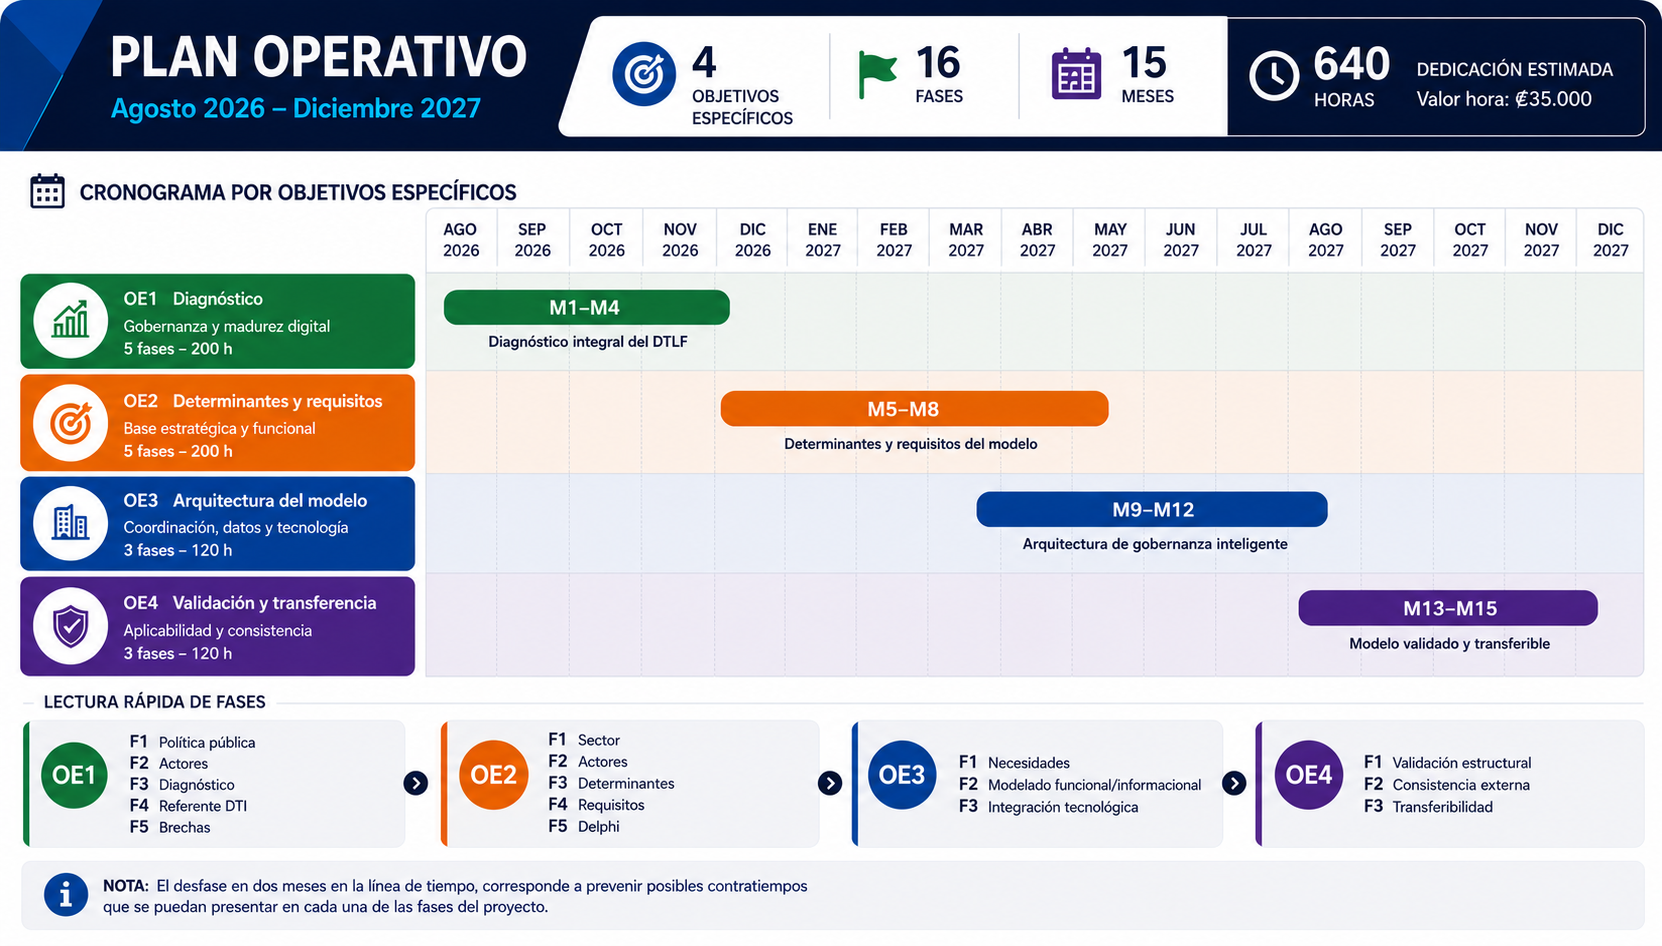
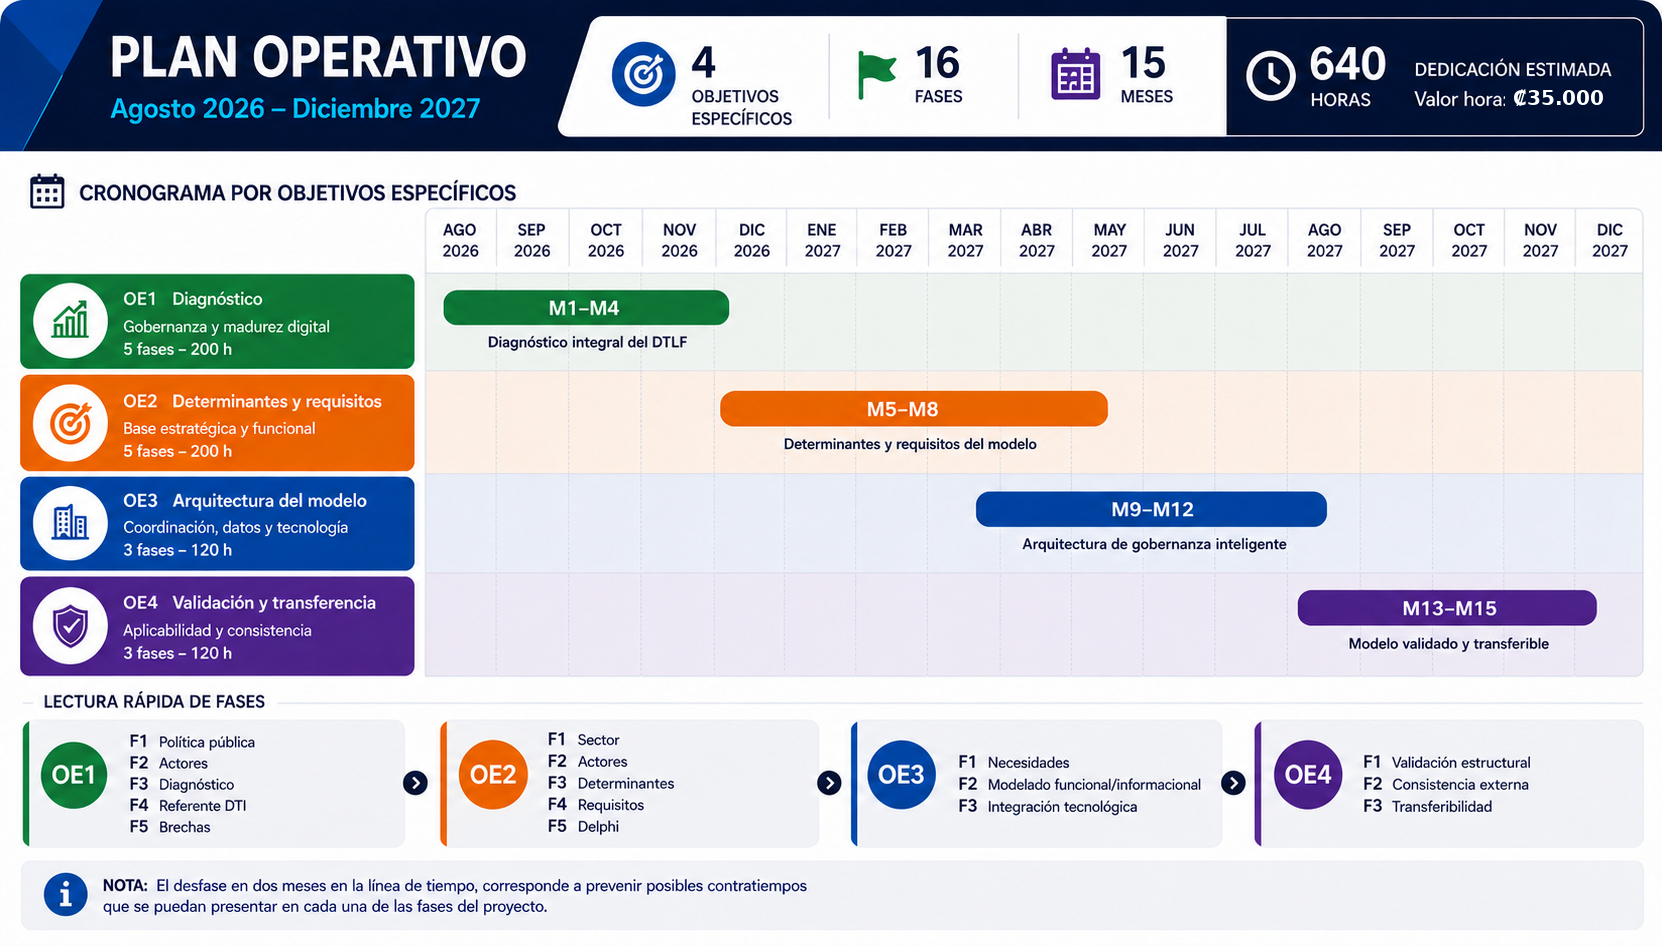
fix: aislar interacción por slide y compactar barra de navegación
- Guarda de captura global que bloquea pointer/mouse/touch/keydown sobre
  elementos de slides inactivas, evitando que un marcador de otra pantalla
  abra su contenido.
- Los overlays se reubican en <body> al iniciar, lo que rompía el vínculo con
  su slide: ahora se registra data-owner-slide y las funciones open* lo validan.
- go() quita el foco de botones al cambiar de slide (Enter/Space ya no
  reactiva un marcador de la slide anterior).
- Barra superior: pasos con ancho según contenido para que entren nombres
  largos como "Marco Metodológico".
- Actualiza la imagen del Plan Operativo.

diff --git a/pitch.html b/pitch.html
@@ -140,7 +140,7 @@ svg.ic{width:1em;height:1em;stroke:currentColor;fill:none;stroke-width:1.8;strok
 
 /* ===== Top progress ===== */
 .progress-bar{position:fixed;top:0;left:0;right:0;display:flex;background:var(--cream);z-index:50;border-bottom:1px solid rgba(5,15,13,.12);box-shadow:0 8px 20px rgba(5,15,13,.08);overflow-x:auto}
-.progress-step{flex:1 1 0;min-width:64px;padding:9px 5px;text-align:center;font-size:10px;font-weight:900;color:var(--text-muted);cursor:pointer;transition:all .25s;border-right:1px solid rgba(5,15,13,.06);position:relative;text-transform:uppercase;letter-spacing:.2px;display:flex;align-items:center;justify-content:center;gap:5px;min-height:42px;line-height:1.15;overflow:hidden}
+.progress-step{flex:1 1 auto;min-width:0;padding:8px 3px;text-align:center;font-size:10px;font-weight:900;color:var(--text-muted);cursor:pointer;transition:all .25s;border-right:1px solid rgba(5,15,13,.06);position:relative;text-transform:uppercase;letter-spacing:.2px;display:flex;align-items:center;justify-content:center;gap:3px;min-height:42px;line-height:1.15;overflow:hidden}
 .progress-step .ps-num{font-weight:900;color:var(--volcano);font-size:10.5px;flex-shrink:0}
 .progress-step .ps-name{overflow:hidden;text-overflow:ellipsis;white-space:nowrap;max-width:100%}
 .progress-step:last-child{border-right:none}
@@ -595,7 +595,7 @@ svg.ic{width:1em;height:1em;stroke:currentColor;fill:none;stroke-width:1.8;strok
   .brand-full{display:none}
   .brand{padding:8px 10px}
   .progress-bar{padding-bottom:2px}
-  .progress-step{min-width:50px;font-size:8.2px;min-height:38px}
+  .progress-step{min-width:0;padding:8px 2px;gap:2px;font-size:8.2px;min-height:38px}
   .photo-frame{max-width:210px}
   .tabbar{display:grid;grid-template-columns:minmax(0,1fr) minmax(0,1fr);gap:8px}
   .tabbtn{justify-content:center;padding:10px 8px}
@@ -639,7 +639,7 @@ svg.ic{width:1em;height:1em;stroke:currentColor;fill:none;stroke-width:1.8;strok
 /* small phone */
 @media (max-width:400px){
   .slide{padding:58px 14px 32px}
-  .progress-step{min-width:44px;font-size:7.6px}
+  .progress-step{min-width:0;padding:7px 1px;gap:2px;font-size:7.6px}
   .progress-step .ps-num{font-size:9px}
   .cifras-bento{grid-template-columns:minmax(0,1fr)}
   .cifra.hl{grid-column:span 1}
@@ -796,6 +796,35 @@ svg.ic{width:1em;height:1em;stroke:currentColor;fill:none;stroke-width:1.8;strok
   if(mq.addEventListener) mq.addEventListener('change', applyMode);
   else mq.addListener(applyMode);
   window.addEventListener('orientationchange', function(){ setTimeout(applyMode, 50); });
+})();
+</script>
+
+<script>
+/* Aislamiento por slide: ningún elemento de una slide inactiva puede recibir
+   interacción ni abrir su contenido, aunque quede solapado en pantalla. */
+(function(){
+  function slideOf(el){
+    return (el && el.closest) ? el.closest('.slide') : null;
+  }
+  function belongsToActiveSlide(el){
+    var owner = (el && el.closest) ? el.closest('[data-owner-slide]') : null;
+    if(owner){
+      var slides = document.querySelectorAll('.slide');
+      var idx = +owner.dataset.ownerSlide;
+      return !!slides[idx] && slides[idx].classList.contains('active');
+    }
+    var s = slideOf(el);
+    return !s || s.classList.contains('active');
+  }
+  window.__belongsToActiveSlide = belongsToActiveSlide;
+
+  ['pointerdown','mousedown','click','dblclick','touchstart','keydown'].forEach(function(type){
+    document.addEventListener(type, function(e){
+      if(belongsToActiveSlide(e.target)) return;
+      e.stopImmediatePropagation();
+      if(type !== 'keydown') e.preventDefault();
+    }, true);
+  });
 })();
 </script>
 
@@ -1195,6 +1224,7 @@ const $steps = document.querySelectorAll('.progress-step');
 
 function go(i){
   i = Math.max(0, Math.min(slides.length-1, i));
+  if(document.activeElement && document.activeElement.closest && document.activeElement.closest('.slide')) document.activeElement.blur();
   document.querySelectorAll('.preg-overlay.open, .mt-table-overlay.open').forEach(o=>o.classList.remove('open'));
   document.querySelectorAll('.photo-frame.marker-open').forEach(f=>f.classList.remove('marker-open'));
   const mmImg = document.getElementById('mmImgOverlayImg');
@@ -1366,6 +1396,7 @@ const OBJESP_INFO = [
   {t:'4. Validación del modelo', d:'Validar el modelo propuesto en términos de completitud, coherencia y consistencia para asegurar su transferibilidad y aplicabilidad en el ecosistema del DTLF.'}
 ];
 function openObjEspMarker(i){
+  if(!window.__belongsToActiveSlide(document.getElementById('objEspOverlay'))) return;
   document.getElementById('objEspOverlayTitle').textContent = OBJESP_INFO[i].t;
   document.getElementById('objEspOverlayBody').textContent = OBJESP_INFO[i].d;
   const overlay = document.getElementById('objEspOverlay');
@@ -1406,6 +1437,7 @@ window.addEventListener('resize', fitObjEspFrame);
 /* ===== Pregunta: preguntas específicas ===== */
 function openPregOverlay(){
   const overlay = document.getElementById('pregOverlay');
+  if(!window.__belongsToActiveSlide(overlay)) return;
   if(overlay) overlay.classList.add('open');
 }
 function closePregOverlay(){
@@ -1842,7 +1874,7 @@ function setMarcoTeoAcc(i){
 }
 function openMarcoTeoMarker(i){
   const overlay = document.getElementById('mtTableOverlay');
-  if(!overlay) return;
+  if(!overlay || !window.__belongsToActiveSlide(overlay)) return;
   overlay.classList.add('open');
   setMarcoTeoAcc(i);
 }
@@ -1889,7 +1921,7 @@ const MARCOMETO_OBJ_IMAGES = ['assets/mm-obj1.png', 'assets/mm-obj2.png', 'asset
 function openMmImgOverlay(src){
   const overlay = document.getElementById('mmImgOverlay');
   const img = document.getElementById('mmImgOverlayImg');
-  if(!overlay || !img) return;
+  if(!overlay || !img || !window.__belongsToActiveSlide(overlay)) return;
   if(img.src.endsWith(src)){
     overlay.classList.add('open');
     return;
@@ -1908,7 +1940,7 @@ function closeMmImgOverlay(){
 function openMarcoMetoMarker(i){
   if(i===2){
     const overlay = document.getElementById('mmProcesoOverlay');
-    if(overlay) overlay.classList.add('open');
+    if(overlay && window.__belongsToActiveSlide(overlay)) overlay.classList.add('open');
     return;
   }
   openMmImgOverlay(MARCOMETO_IMAGES[i]);
@@ -2113,7 +2145,12 @@ if($printBtn) $printBtn.addEventListener('click', generatePitchPDF);
 <script>
 ['pregOverlay','mtTableOverlay','mmImgOverlay','mmProcesoOverlay','objEspOverlay'].forEach(function(id){
   var el=document.getElementById(id);
-  if(el && el.parentNode!==document.body) document.body.appendChild(el);
+  if(!el || el.parentNode===document.body) return;
+  /* Al sacar el overlay de su slide se pierde el vínculo: lo guardamos como índice
+     para que la guarda de aislamiento siga sabiendo a qué pantalla pertenece. */
+  var owner=el.closest('.slide');
+  if(owner) el.dataset.ownerSlide=[].indexOf.call(document.querySelectorAll('.slide'), owner);
+  document.body.appendChild(el);
 });
 </script>
 <script>
